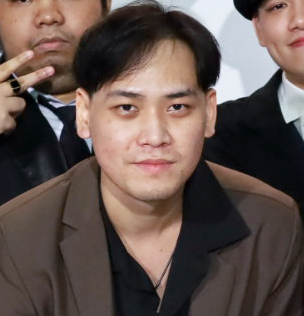
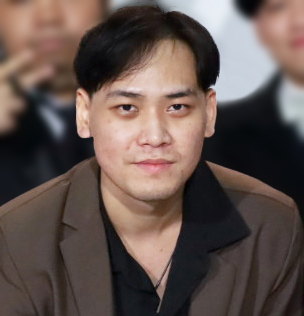
Change profile img, add animation to rproject cards, add error handler.

diff --git a/src/data.ts b/src/data.ts
@@ -1,0 +1,175 @@
+export const data = [
+    {
+        "image": "https://drive.google.com/file/d/1FfcrYXCYlvX00nCflS6zzTX0TB0Dsqnb/view?usp=sharing",
+        "cv": "https://drive.google.com/uc?export=download&id=1D58YHdzI4QT_1m4JDsQus_UrD5ZVs3vp",
+        "first_name": "Tanabodee",
+        "last_name": "Yambangyang",
+        "address": "98/7, Moo 1, Wimonnut Village, Ya Chan Uthit Alley, Khun Kaeo Sub-district, Nakhon Chai Si District, Nakhon Pathom Province, 73120",
+        "about_me": "I'm Tanabodee YAMBANGYANG, a software engineer focusing on frontend development and web applications. I have hands-on experience building user interfaces and have also worked on model implementation for recommendation systems as part of my academic projects.\n\nI’m currently broadening my skills beyond frontend development, exploring backend technologies and essential software engineering principles. My goal is to become a more capable, well-rounded software engineer and continuously improve in my future career.",
+        "contact": {
+            "facebook": "https://www.facebook.com/profile.php?id=100007994625777",
+            "linkedin": "https://www.linkedin.com/in/tanabodee-yambangyang-11a3882a2/",
+            "github": "https://github.com/Tanabodee-Yambangyang",
+            "email": "tanabodeeyambangyang@gmail.com"
+        },
+        "introduction": "I love building smart, scalable web applications that are both user-friendly and impactful. With a strong focus on front-end development, I'm continuously expanding my skills to grow into a well-rounded, high-quality software engineer.",
+        "education": [
+            {
+                "id": "1",
+                "degrees": "Bachelor",
+                "faculty": "Engineering",
+                "major": "Software & Knowledge Engineering (International Program)",
+                "university": "Kasetsart University, Bangkhen",
+                "period": "2021 - 2025"
+            }
+        ],
+        "projects": [
+            {
+                "id": 1,
+                "slug": "togetherwherever",
+                "name": "Senior Project – TogetherWherever",
+                "duration": "Jan 2024 - Mar 2025",
+                "description": "TogetherWherever is an AI-powered travel planning web application designed to enhance group travel experiences. Developed as my senior project, the system analyzes the preferences of all group members to recommend destinations and collaboratively build personalized itineraries. It features a hybrid recommendation engine that combines the Apriori algorithm, content-based filtering, and critiquing-based methods to generate destination suggestions aligned with the group’s collective interests.",
+                "technologies": [
+                    "Next.js",
+                    "TypeScript",
+                    "Tailwind CSS",
+                    "Python",
+                    "Apriori Algorithm"
+                ],
+                "github": "https://github.com/TogetherWherever",
+                "responsibilities": [
+                    "Contributed to all software development stages, including UI/UX design, documentation, sprint planning, code reviews, and meetings.",
+                    "Built frontend with Next.js, TypeScript, and Tailwind CSS for trip planning, group voting, and itinerary visualization.",
+                    "Integrated FastAPI backend APIs with frontend.",
+                    "Designed and implemented a recommendation engine using Apriori algorithm, content-based filtering, and critiquing-based feedback for group voting.",
+                    "Deployed the app on Vercel, ensuring responsiveness and accessibility.",
+                    "Participated in user testing, metrics analysis (Jaccard similarity, precision, recall, fairness), and iterative improvements based on feedback."
+                ],
+                "images": [
+                    "/togetherwherever/togetherwherever0.png",
+                    "/togetherwherever/togetherwherever1.png",
+                    "/togetherwherever/togetherwherever2.png",
+                    "/togetherwherever/togetherwherever3.png",
+                    "/togetherwherever/togetherwherever4.png",
+                    "/togetherwherever/togetherwherever5.png",
+                    "/togetherwherever/togetherwherever6.png",
+                    "/togetherwherever/togetherwherever7.png",
+                    "/togetherwherever/togetherwherever8.png",
+                    "/togetherwherever/togetherwherever9.png",
+                    "/togetherwherever/togetherwherever10.png",
+                    "/togetherwherever/togetherwherever11.png"
+                ]
+            },
+            {
+                "id": 2,
+                "slug": "referite",
+                "name": "Referite",
+                "duration": "Oct 2023 - Nov 2023",
+                "description": "Referite is a web application developed as part of the Software Process and Project Management course at Kasetsart University. It simulates the operational workflow of the Paris 2024 Olympic Games, assisting the organizing committee in managing event schedules and documenting medal outcomes. The application includes features like medal tracking, result editing, real-time updates, referee login, and data validation.",
+                "technologies": [
+                    "React.js",
+                    "TypeScript",
+                    "CSS"
+                ],
+                "github": "https://github.com/Referite",
+                "responsibilities": [
+                    "Led the Frontend Development Team, managing planning and coordination of all interface implementation work.",
+                    "Owned frontend development of the Medal Outcomes Document System page using React.js, TypeScript, and CSS.",
+                    "Designed and built the entire UI, including input mechanics for recording and editing medal outcomes by sport and event.",
+                    "Created dynamic, responsive components ensuring smooth user interactions.",
+                    "Integrated frontend with FastAPI backend for data flow and validation.",
+                    "Collaborated with backend developers and UI designers to maintain app consistency.",
+                    "Conducted frontend code reviews and optimized core workflows."
+                ],
+                "images": [
+                    "/referite/referite0.png",
+                    "/referite/referite1.png",
+                    "/referite/referite2.png",
+                    "/referite/referite3.png",
+                    "/referite/referite4.png",
+                    "/referite/referite5.png"
+                ]
+            },
+            {
+                "id": 3,
+                "slug": "wongnung",
+                "name": "WongNung",
+                "duration": "Oct 2022 - Nov 2022",
+                "description": "WongNung is a community-driven film review app where movie fans join Fandoms based on shared interests, share reviews, and get personalized recommendations within their groups.",
+                "technologies": [
+                    "Python",
+                    "Django",
+                    "OAuth",
+                    "unittest",
+                    "Selenium"
+                ],
+                "github": "https://github.com/WongNung/WongNung",
+                "responsibilities": [
+                    "Developed Django data models for users, reviews, films, and fandom groups.",
+                    "Performed automated testing with unittest for backend logic and Selenium for end-to-end workflows.",
+                    "Implemented OAuth authentication (Google, GitHub, Discord) for secure user login.",
+                    "Collaborated on backend logic to ensure stable and testable core Fandom and review features."
+                ],
+                "images": [
+                    "/wongnung/wongnung1.png",
+                    "/wongnung/wongnung2.png",
+                    "/wongnung/wongnung3.png",
+                    "/wongnung/wongnung4.png",
+                    "/wongnung/wongnung5.png"
+                ]
+            }
+        ],
+        "experiences": [
+            {
+                "id": 1,
+                "slug": "erudite-software-engineer-intern",
+                "company": "Erudite Company Limited",
+                "position": "Intern – Software Engineer (Front-end developer)",
+                "duration": "Jun 2024 – Dec 2024",
+                "responsibilities": [
+                    "Collaborating in the development team for requirement analysis and understanding objectives.",
+                    "Implementing user interfaces with Next.js and Tailwind CSS.",
+                    "Integrating backend APIs into Front-end interfaces.",
+                    "Collaborating in code reviews and technical discussions with the team to enhance project quality."
+                ]
+            }
+        ],
+        "skills": {
+            "programming_languages": [
+                "Python",
+                "JavaScript",
+                "TypeScript",
+                "C++",
+                "Java",
+                "SQL"
+            ],
+            "web_development": [
+                "HTML",
+                "CSS",
+                "React.js",
+                "Next.js",
+                "Django",
+                "Tailwind CSS"
+            ],
+            "tools_platforms": [
+                "unittest",
+                "Selenium"
+            ],
+            "methodologies": [
+                "Agile",
+                "Scrum"
+            ],
+            "soft_skills": [
+                "Problem Solving",
+                "Collaboration",
+                "Communication",
+                "Adaptability"
+            ],
+            "languages": [
+                "Thai (Native)",
+                "English"
+            ]
+        }
+    }
+]

diff --git a/src/components/sections/ProjectsSection.tsx b/src/components/sections/ProjectsSection.tsx
@@ -47,15 +47,17 @@ export default function ProjectsSection({ isDarkTheme, projectData, ref }: Proje
             >
                 Projects.
             </motion.div>
-            <motion.div
-                variants={containerVariants}
-            >
-                <div className="grid md:grid-cols-3 grid-cols-1 w-full gap-8">
-                    {projectData?.map((project) => (
+
+            <div className="grid md:grid-cols-3 grid-cols-1 w-full gap-8">
+                {projectData?.map((project) => (
+                    <motion.div
+                        key={project.id}
+                        variants={fadeUpVariants}
+                    >
                         <ProjectCard key={project.id} project={project} isDarkTheme={isDarkTheme} />
-                    ))}
-                </div>
-            </motion.div>
-        </motion.div>
+                    </motion.div>
+                ))}
+            </div>
+        </motion.div >
     );
 }

diff --git a/src/fetcher.ts b/src/fetcher.ts
@@ -1,4 +1,5 @@
 import axios from 'axios';
+import { data } from "@/data";
 import { Profile } from "@/types/fetchedData";
 
 const END_POINT = "https://portfolio-second-version-backend-3.onrender.com/profile";
@@ -6,11 +7,11 @@ const END_POINT = "https://portfolio-second-version-backend-3.onrender.com/profi
 export const fetchPortfolioData = async (): Promise<Profile[]> => {
   try {
     const res = await axios.get<Profile[]>(END_POINT);
-    if (res.status === 200) {
+    if (res.status === 200) {      
       return res.data;
     }
     throw new Error(`Unexpected response status: ${res.status}`);
   } catch (error) {
-    throw error;
+    return data;
   }
 };
